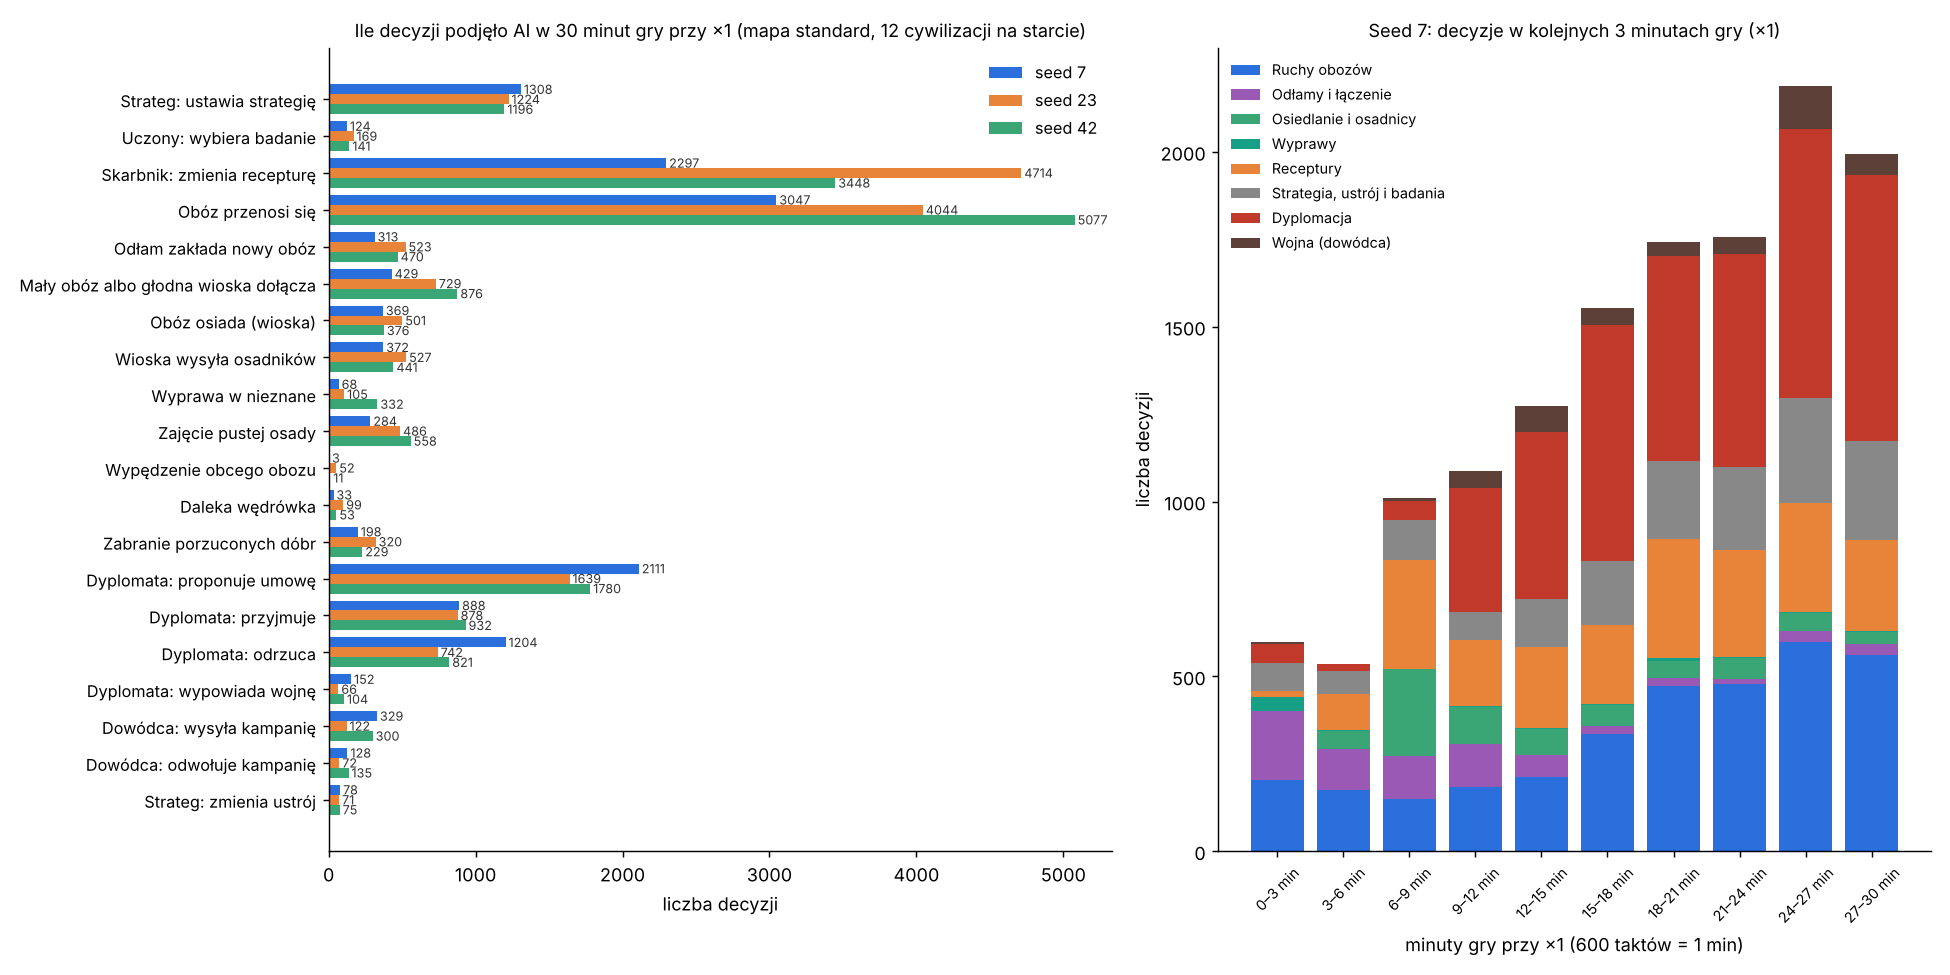
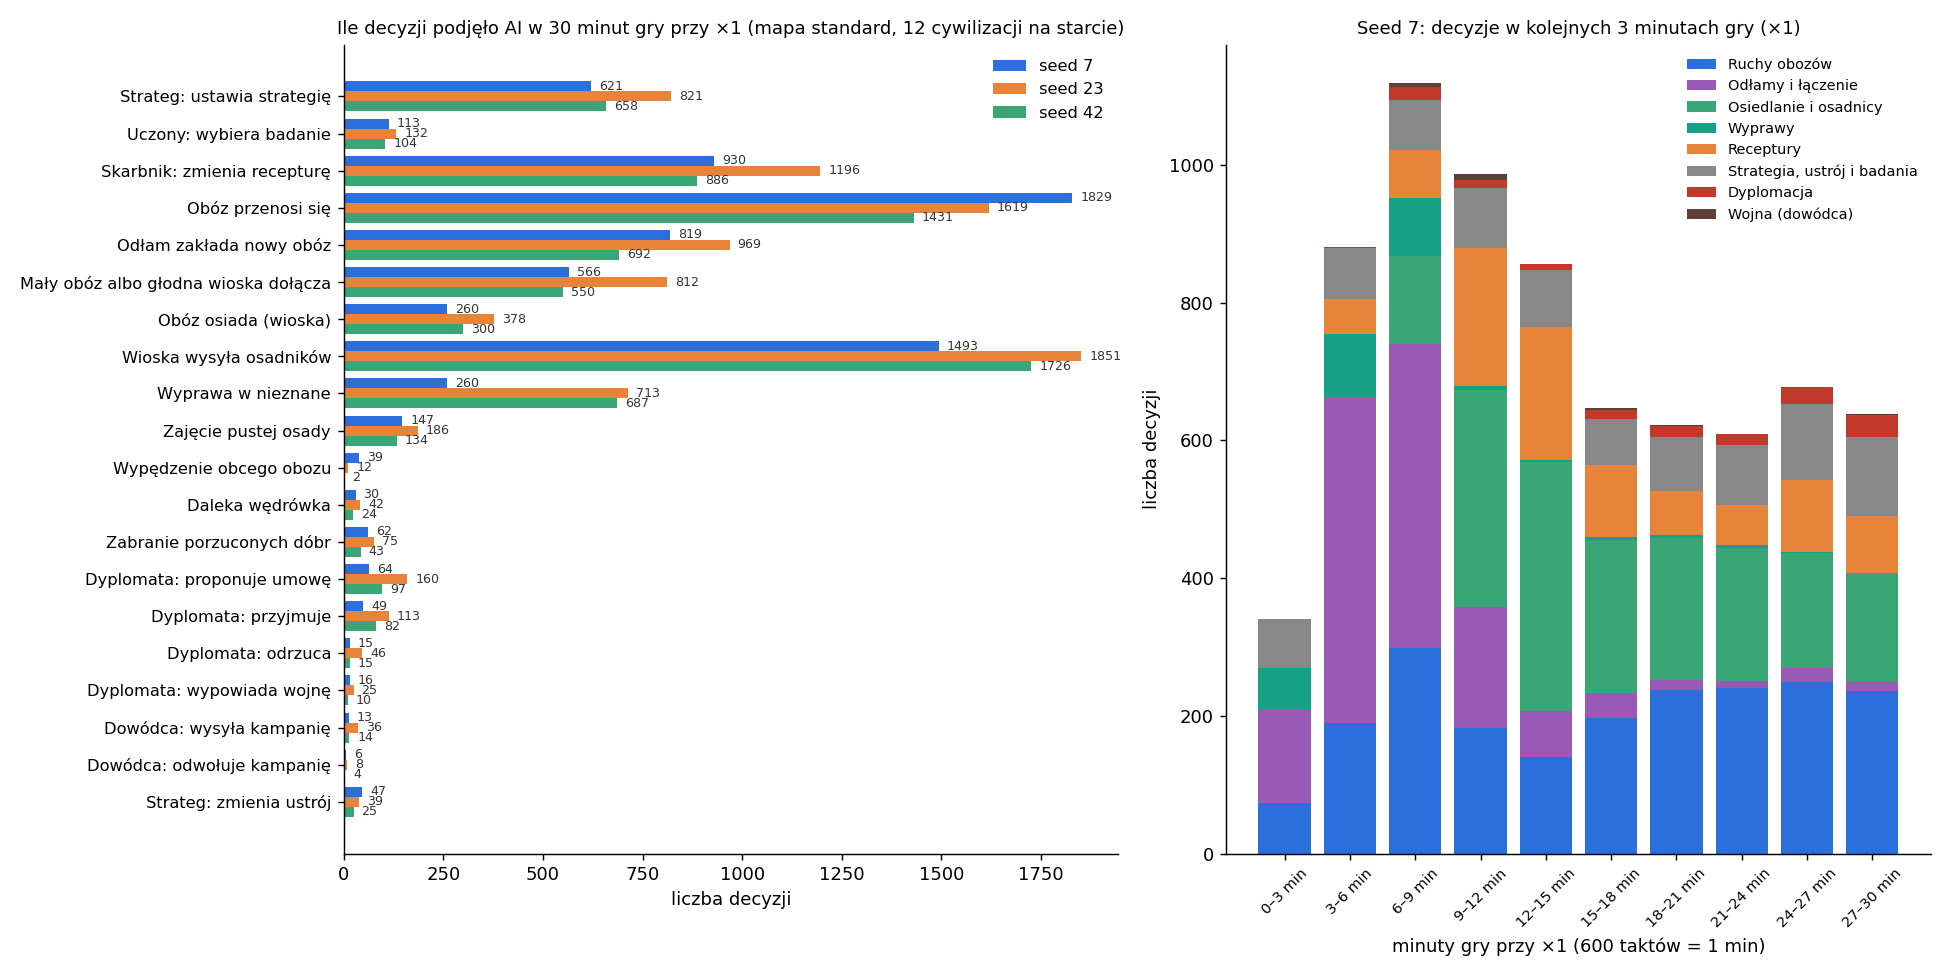
Docs: AI statistics from 3 seeds after battles over time, new decisions chart

Changed region(s): [[0.5846, 0.0, 0.9846, 0.9846], [0.0, 0.0, 0.5846, 0.9538], [0.5846, 0.4, 0.6462, 0.5538]]

diff --git a/docs/ai/README.md b/docs/ai/README.md
@@ -4,7 +4,7 @@ Ten katalog opisuje **każdą decyzję**, którą podejmuje sztuczna inteligencj
 na podstawie jakich danych, według jakiego wzoru, z jakimi progami i gdzie to jest w kodzie. Jest pisany dla Patryka:
 żeby można było ocenić, czy mechanika nie jest za prosta albo za skomplikowana i bez sensu.
 
-**Stan opisu:** etap 4d + zegar świata (ADR 0018) + wartości i priorytety (PR B, ADR 0019) + ziemia i migracje (PR C) + fachy, ludzie i demografia (cały etap 4F) + wojna z celem i pokój z warunkami (etap 4e PR 1) + epizody i pierwszy dowódca (etap 4e PR 2) + armie z wielu osad, uzbrojenie i zaopatrzenie (etap 4e PR 3) + bitwy w rundach (etap 4e PR 4) + dowódca, który rozgrywa bitwę w głowie i co miesiąc patrzy jeszcze raz (etap 4e PR 5) + strojenie wojny (etap 4e PR 6) + ustroje (etap 4f PR 1) + przywódcy (etap 4f PR 2) + stabilność (etap 4f PR 3) + bunty i secesja (etap 4f PR 4) + AI wobec państwa: przeciążenie, niepokoje, wybór ustroju i koniec pętli odwetu (etap 4f PR 5) + testy wsadowe (etap 4g) + poprawki po 100 grach: głód wiosek, wojny o łupy i ziemię, sojusze (gałąź `feat/ai-fixes`) + poprawki po 4-godzinnym biegu: wojna o odwet tylko w zasięgu, zasięg władzy i dryf osad (etap 5b, PR #63) + zegar gry na żywo: pulsy i takty (etap 6 PR 1, ADR 0025).
+**Stan opisu:** etap 4d + zegar świata (ADR 0018) + wartości i priorytety (PR B, ADR 0019) + ziemia i migracje (PR C) + fachy, ludzie i demografia (cały etap 4F) + wojna z celem i pokój z warunkami (etap 4e PR 1) + epizody i pierwszy dowódca (etap 4e PR 2) + armie z wielu osad, uzbrojenie i zaopatrzenie (etap 4e PR 3) + bitwy w rundach (etap 4e PR 4) + dowódca, który rozgrywa bitwę w głowie i co miesiąc patrzy jeszcze raz (etap 4e PR 5) + strojenie wojny (etap 4e PR 6) + ustroje (etap 4f PR 1) + przywódcy (etap 4f PR 2) + stabilność (etap 4f PR 3) + bunty i secesja (etap 4f PR 4) + AI wobec państwa: przeciążenie, niepokoje, wybór ustroju i koniec pętli odwetu (etap 4f PR 5) + testy wsadowe (etap 4g) + poprawki po 100 grach: głód wiosek, wojny o łupy i ziemię, sojusze (gałąź `feat/ai-fixes`) + poprawki po 4-godzinnym biegu: wojna o odwet tylko w zasięgu, zasięg władzy i dryf osad (etap 5b, PR #63) + zegar gry na żywo: pulsy i takty (etap 6 PR 1, ADR 0025) + czas polityki (PR 2) + oddziały (PR 3a, 3b) + bitwa w czasie i wędrówka z zapamiętaną drogą (gałąź `feat/battle-time`, od commita `51bb3ef`).
 **Aktualizacja:** po każdym etapie, który zmienia AI (zasada w `CLAUDE.md`). Historia zmian jest na dole tej strony.
 
 ## Jak czytać
@@ -153,4 +153,4 @@ w `docs/systems/`:
 | 2026-11-09 | czas polityki (etap 6 PR 2) | Decyzja Patryka: czasy wojny, dyplomacji i polityki w **latach akcji** (rok = 6 s przy ×1). D2: przegląd planowy raz na 50 lat akcji (5 min; rada 7,5 min, wódz 3,75 min) zamiast co ok. 6 s; ponowienie propozycji po 20 latach akcji (było 100 lat); rozejm 20 lat akcji (było 100). S2: nowy ustrój trzymany 20 lat akcji (było 200 lat). Pamięć krzywd skrócona 5 razy (napad 30–60, secesja 40–80 lat akcji). Nowa sytuacja „czas polityki” w `DeadValueTests`. Skutek (3 seedy, 30 min): umów i sojuszy ok. 4–15 razy mniej, wojen 1–3 razy mniej (ocena pkt 20, statystyki w `09`). |
 | 2026-11-09 | oddziały (etap 6 PR 3a) | Odłamy obozów (G3) i osadnicy wiosek (G7) wychodzą jako **oddziały osadników** (`docs/systems/units.md`): idą do celu w taktach i zakładają obóz na miejscu; wzory decyzji bez zmian. Usunięta reguła „mała głodna wioska przenosi się do innej osady” (decyzja Patryka: wioska zostaje do końca). Zwiad to widoczne oddziały zamiast wypraw w pulsie. Nowa sytuacja „pełne wioski” w `DeadValueTests` (okres osadników). AI nie wydaje jeszcze rozkazów oddziałom w drodze (`MoveUnitCommand` i reszta są dla gracza; AI: PR 3b). |
 | 2026-11-09 | armie jako oddziały (etap 6 PR 3b) | K1: czas marszu z drogi A* armii (jej rodzaj i teren) zamiast 3 pól na miesiąc; osady, których wojownicy odpoczywają po kampanii (`war.json` `restMonths`), nie wychodzą i nie dołączają. K2: potrzeba jedzenia z prędkości rodzaju armii; pobitej, uciekającej armii nie da się odwołać. Wartości wojny na miesiąc przeskalowane do wolniejszego marszu (`war.json`). Wzory ocen bez zmian. |
-| 2026-11-09 | bitwa w czasie i wędrówka z zapamiętaną drogą (etap 6, po PR 3b) | Bez zmian wzorów decyzji. K2: armii w bitwie (nowa faza kampanii `Battle`, runda co sekundę) nie da się odwołać; dowódca decyduje do pierwszej rundy. G3 (wędrówka obozu): droga liczona raz na cel i zapamiętana zamiast przy każdym polu; obóz mija pola zajęte po drodze. Statystyki decyzji nieodświeżane: liczby decyzji zmieniają się tylko przez inny przebieg wojen (pomiar 3 seedów w opisie PR). |
+| 2026-11-09 | bitwa w czasie i wędrówka z zapamiętaną drogą (etap 6, po PR 3b) | Bez zmian wzorów decyzji. K2: armii w bitwie (nowa faza kampanii `Battle`, runda co sekundę) nie da się odwołać; dowódca decyduje do pierwszej rundy. G3 (wędrówka obozu): droga liczona raz na cel i zapamiętana zamiast przy każdym polu; obóz mija pola zajęte po drodze. Statystyki z 3 seedów i nowy wykres decyzji w `09` (wojen 16 / 25 / 10, kampanii 13 / 36 / 14; przebieg wojen jest inny, bo bitwa trwa). |

diff --git a/docs/ai/09-statystyki.md b/docs/ai/09-statystyki.md
@@ -3,7 +3,7 @@
 [← spis treści](README.md)
 
 Trzy gry bez grafiki: mapa standard (256×160), 12 cywilizacji, seedy 7, 23 i 42; do etapu 5b 1000 kroków świata, od etapu 6 PR 1
-18 000 taktów (30 minut przy ×1). Wykres decyzji jest z etapu 6 PR 1 (gałąź `feat/live-clock`); sekcje niżej mówią, z którego etapu są ich liczby. Tabela liczby decyzji niżej
+18 000 taktów (30 minut przy ×1). Wykres decyzji jest z gałęzi `feat/battle-time` (etap 6, bitwa w czasie, 2026-11-09); sekcje niżej mówią, z którego etapu są ich liczby. Tabela liczby decyzji niżej
 jest jeszcze z końca etapu 4F (`feat/demography`; w nawiasach liczby po PR 3, commit `f993e4d`); po PR 1 liczba decyzji zmieniła się o mniej
 niż 10% (4900–8000 na grę).
 Polecenie:
@@ -15,6 +15,22 @@ dotnet run --project src/CivSim.Headless -c Release -- --seed 7 --turns 1000 --m
 Wykres: `python3 docs/ai/tools/decisions_chart.py <katalog z why7.csv, why23.csv, why42.csv>` (potrzebuje matplotlib).
 
 ![Ile decyzji podjęło AI](img/decyzje_1000_tur.png)
+
+## Po bitwie w czasie (etap 6, gałąź `feat/battle-time`)
+
+3 seedy, 18 000 taktów (30 min przy ×1). Wykres decyzji wyżej jest z tych gier. W nawiasach kampanie i bitwy z PR 3b (#70), zmierzone
+na tym samym komputerze.
+
+| Seed | Decyzje | Wypowiedzenia wojny | Kampanie | Bitwy (wygrane) | Odwołania | Propozycje umów | Zmiany ustroju | Ludy żywe na końcu | Secesje |
+| --- | --- | --- | --- | --- | --- | --- | --- | --- | --- |
+| 7 | 7379 | 16 | 13 (27) | 4 / 3 (11 / 11) | 6 | 64 | 47 | 34 | 23 |
+| 23 | 9233 | 25 | 36 (10) | 21 / 21 (5 / 5) | 8 | 160 | 39 | 49 | 38 |
+| 42 | 7484 | 10 | 14 (10) | 6 / 5 (4 / 4) | 4 | 97 | 25 | 37 | 27 |
+
+- **Wzory decyzji bez zmian.** Bitwa trwa teraz kilka sekund (runda na sekundę), więc gry potoczyły się inaczej: w seedzie 23 wojen
+  i kampanii jest więcej, w seedzie 7 mniej. To rozrzut przebiegu, a nie trend (te same wzory, inne losowanie w czasie).
+- **Pierwsze przegrane bitwy atakujących** (seedy 7 i 42): wcześniej wszystkie bitwy wygrywali atakujący.
+- Strojenie wojny (ile bitew na 30 minut, dowódca): etap 7 (decyzja Patryka z 2026-11-09).
 
 ## Po czasie polityki w latach akcji (etap 6 PR 2)
 
